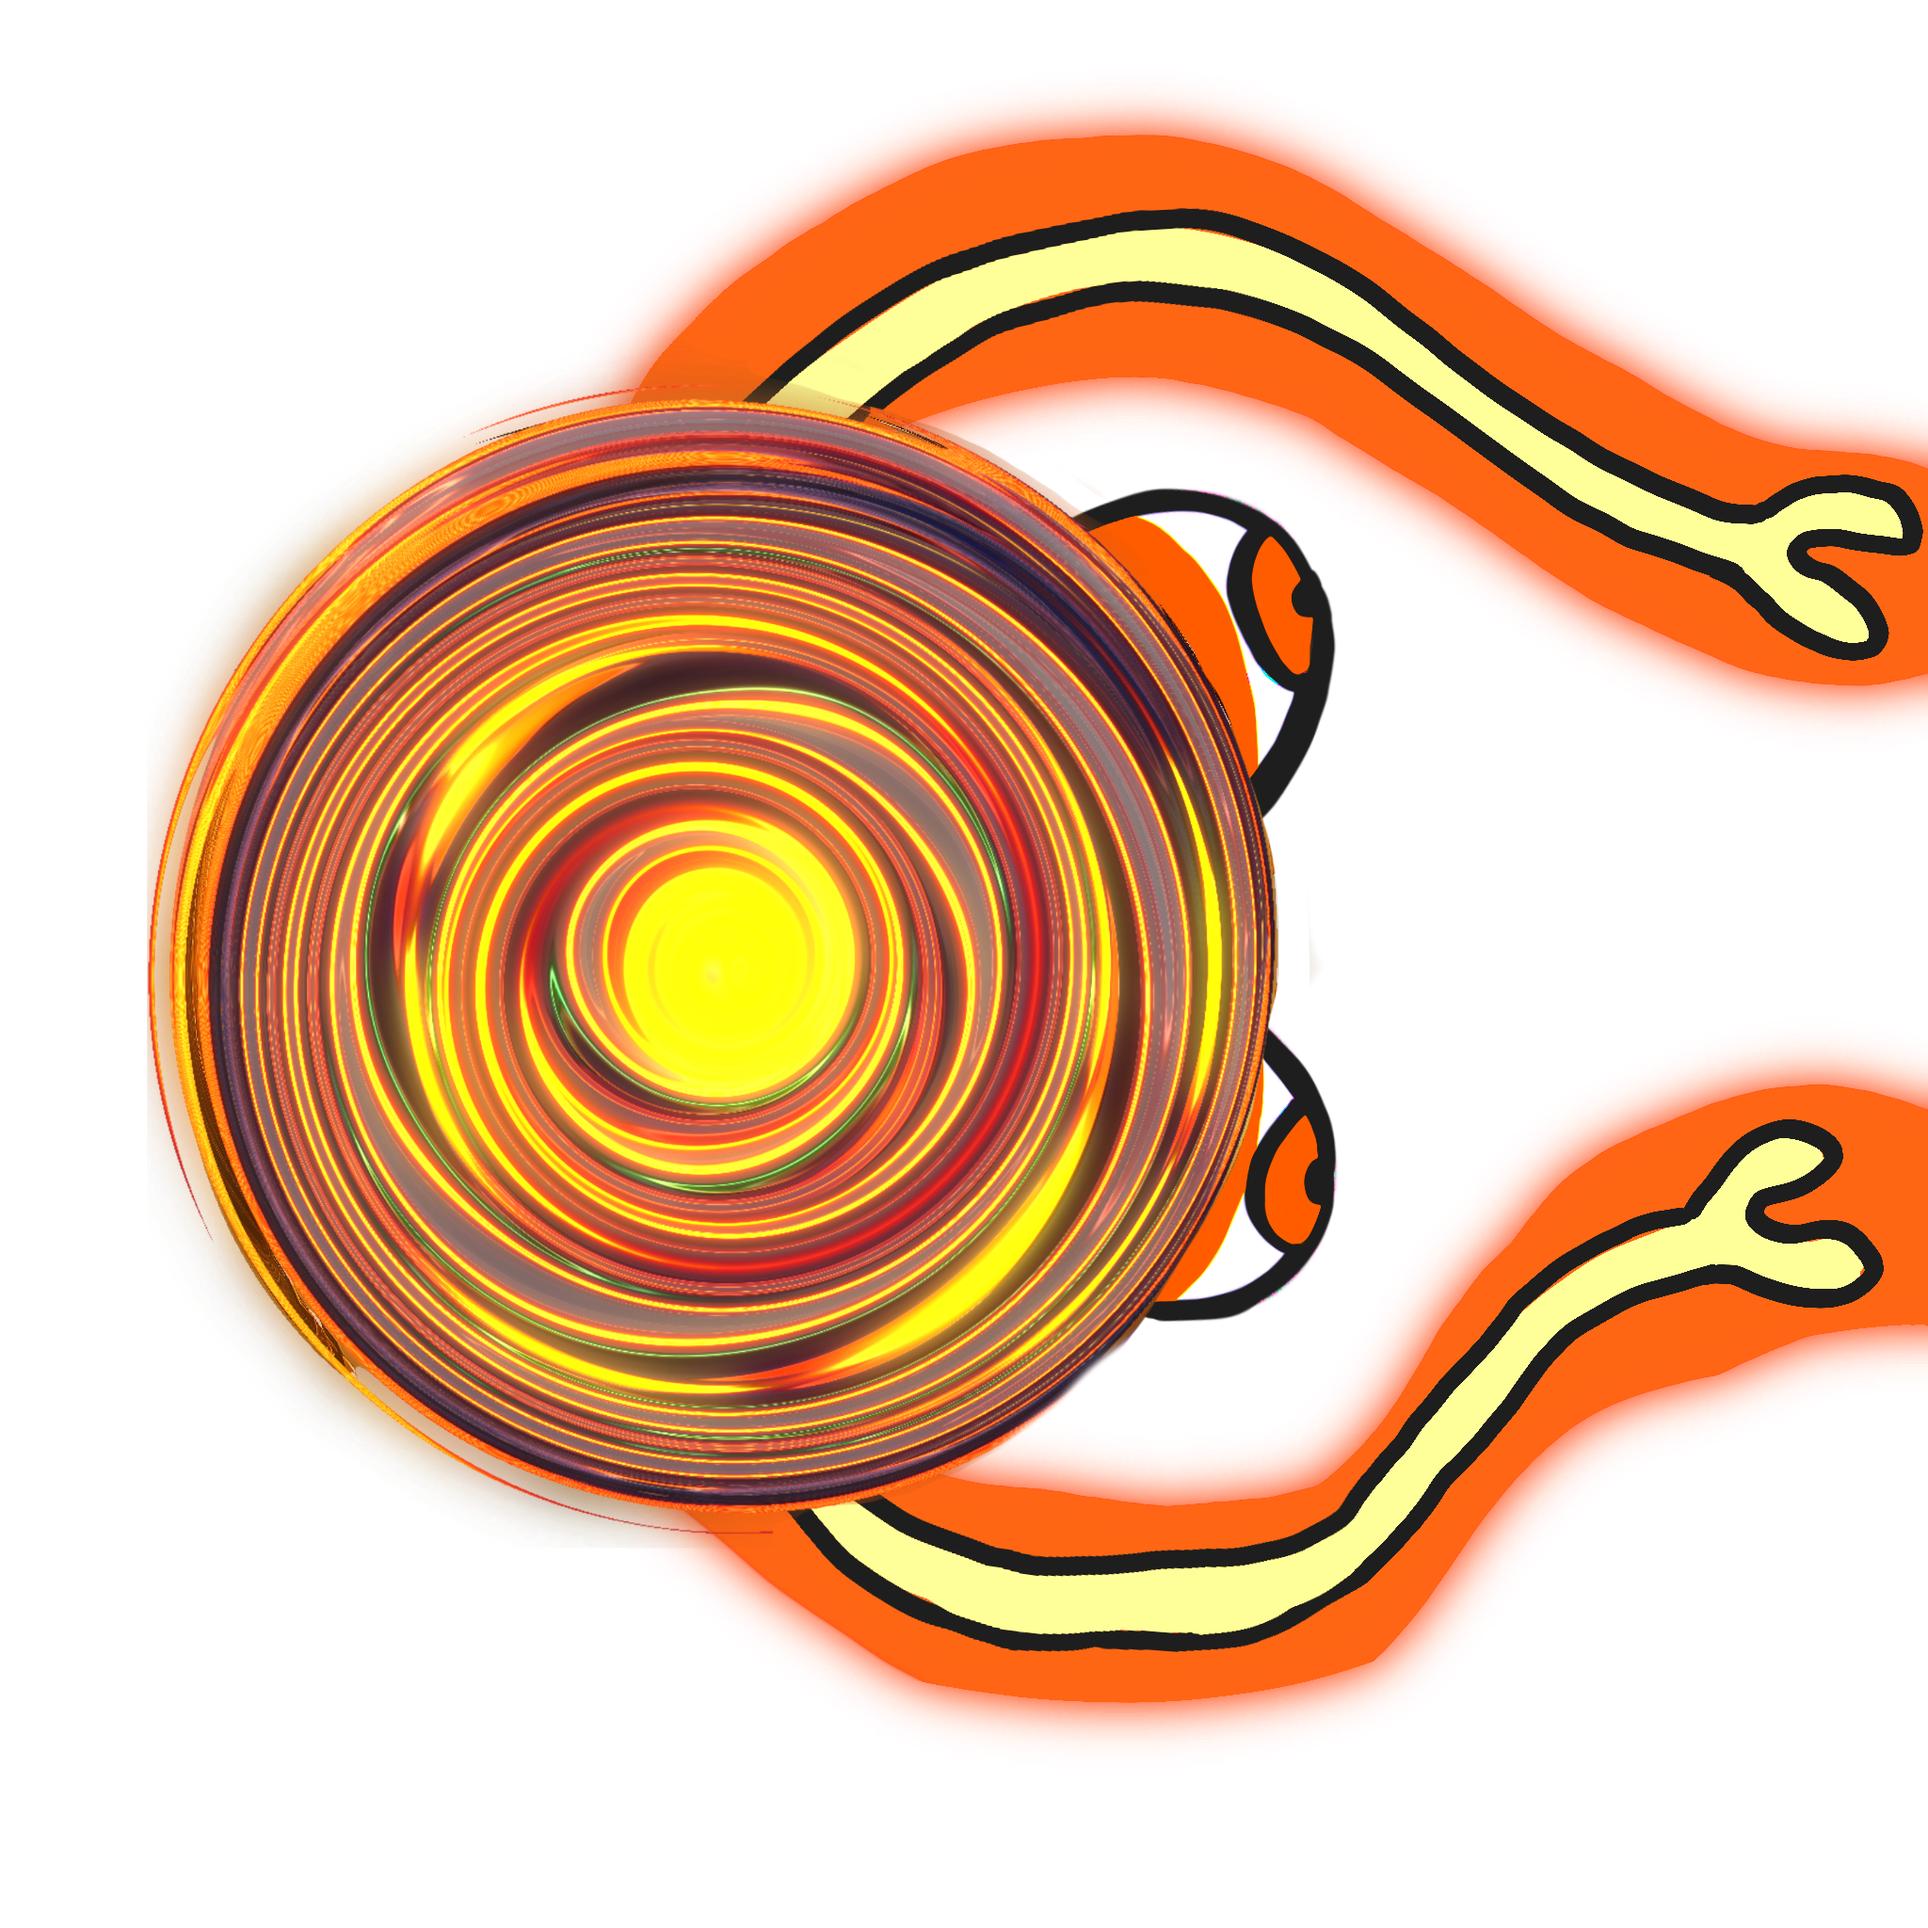
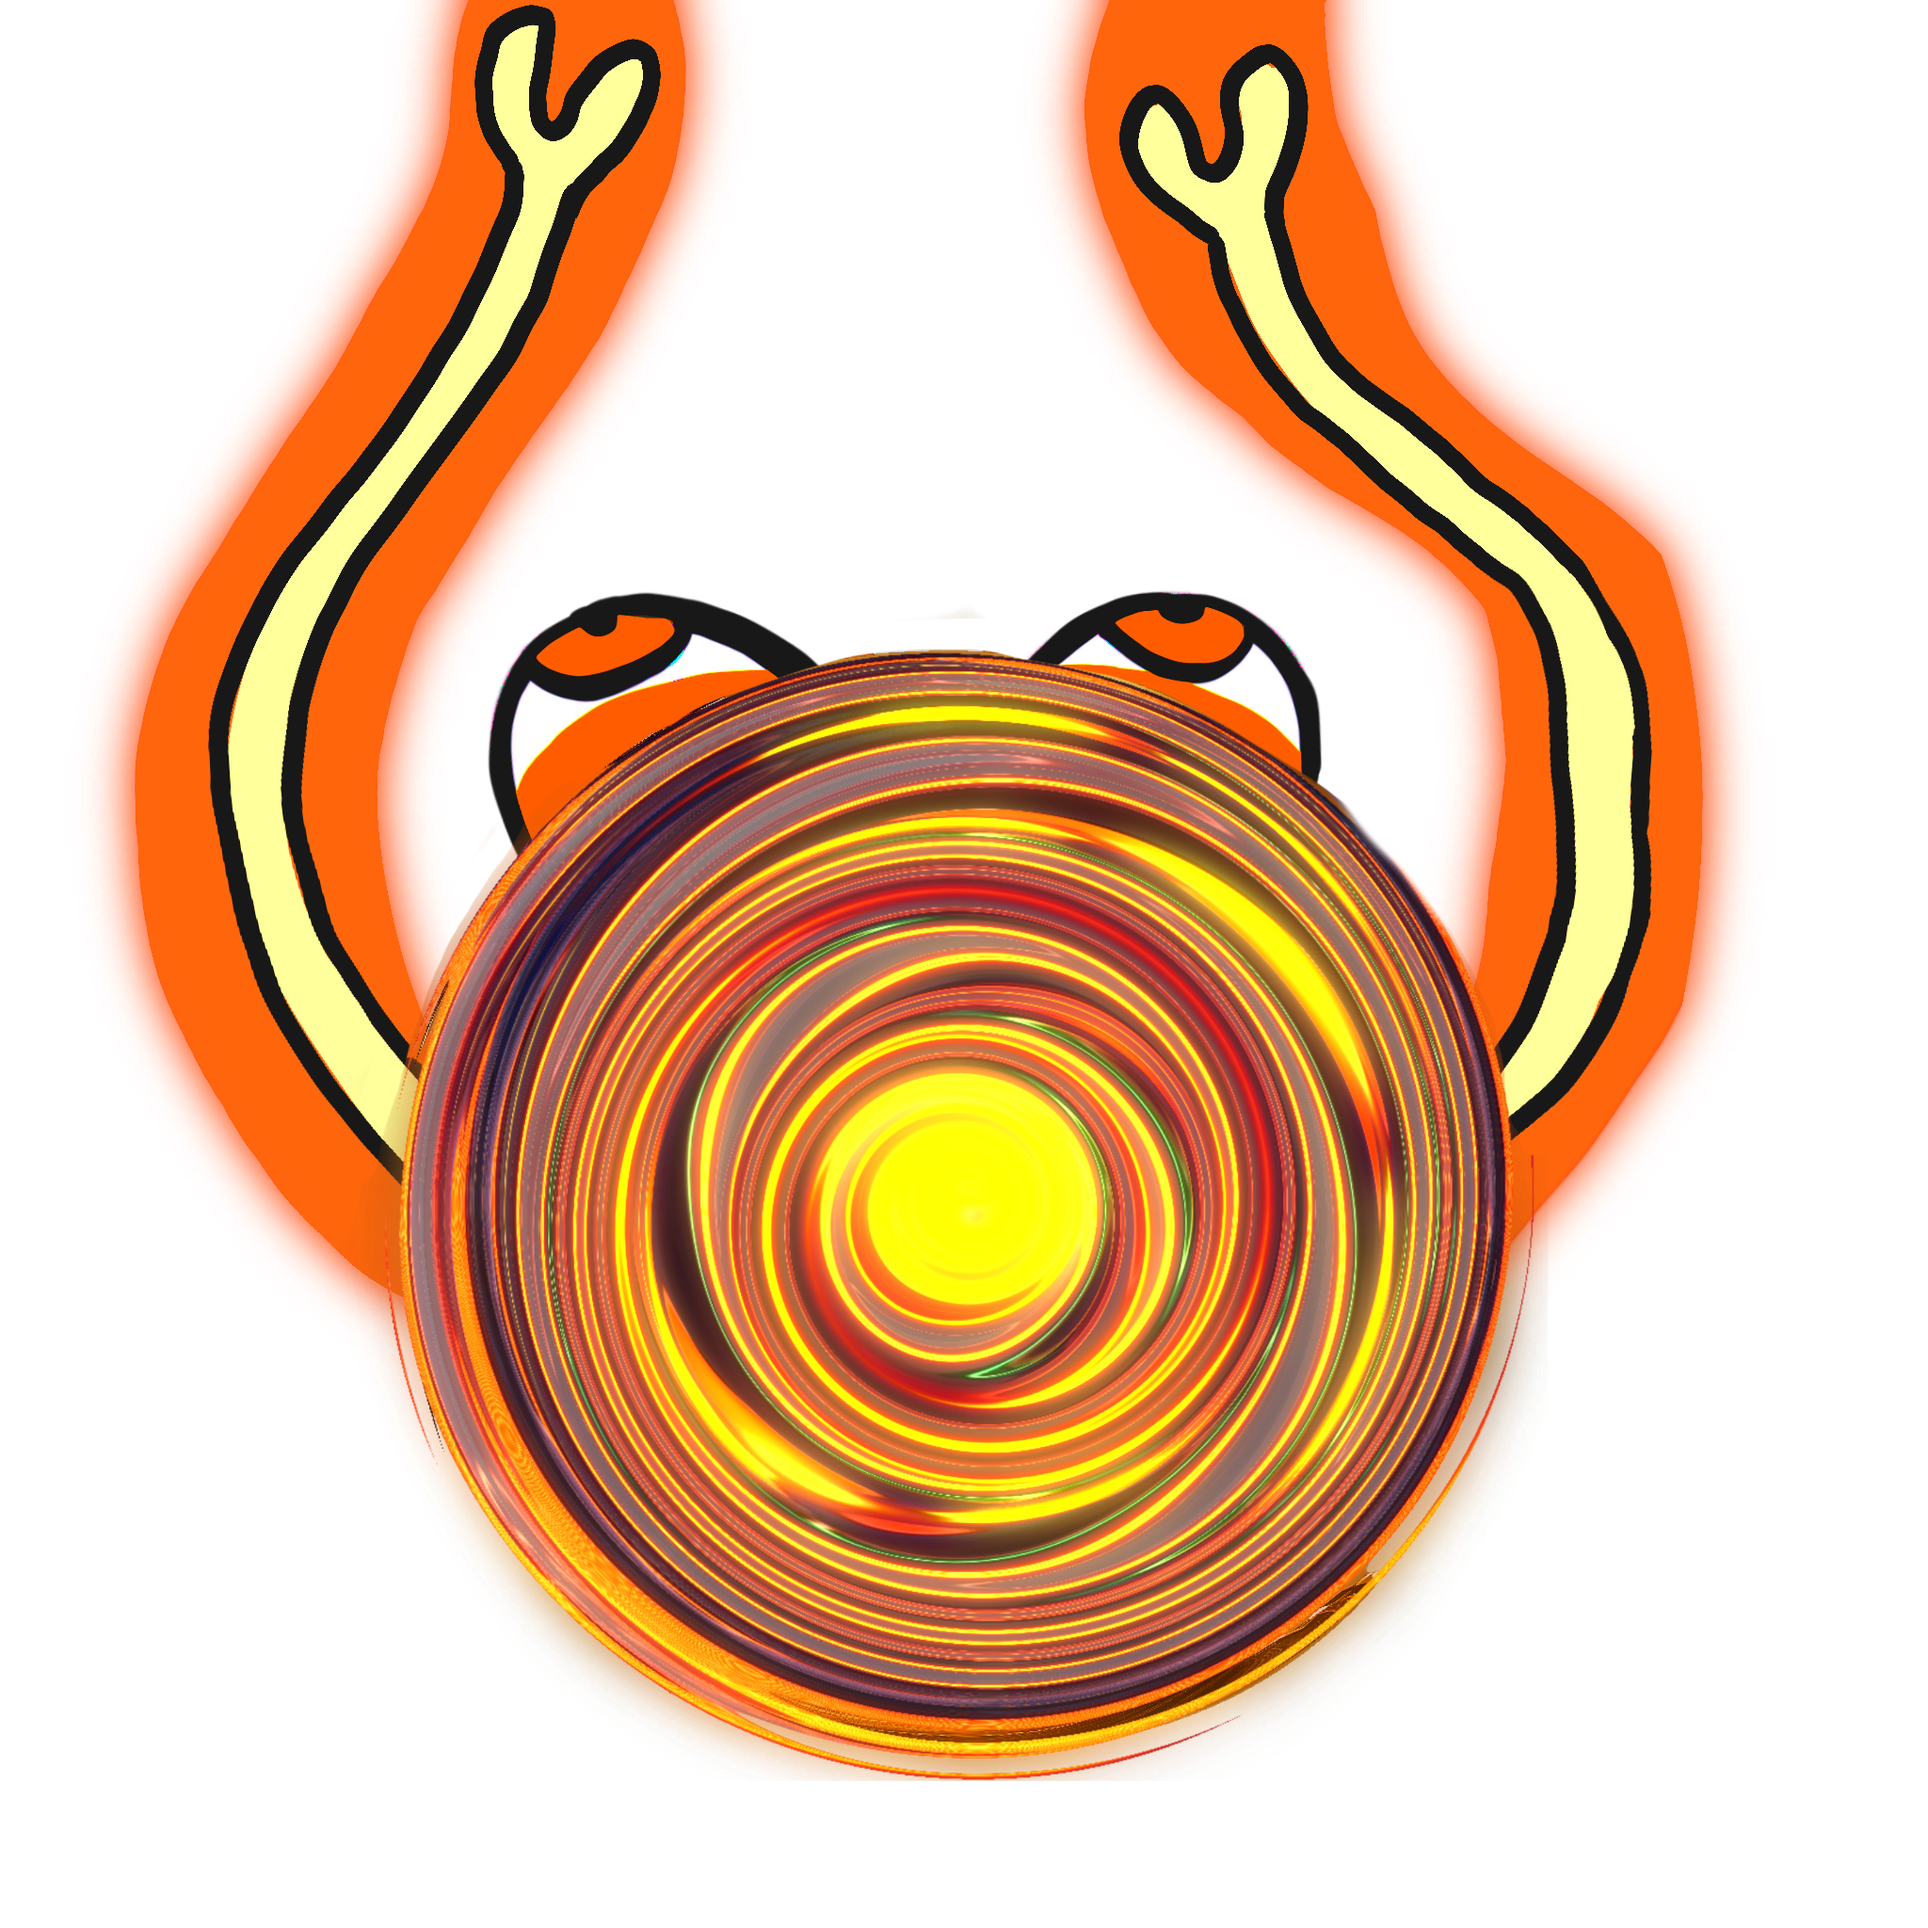
-updated robotimages (now face up instead of right) -implemented rotations for them -bugfixes for reboot directions in GUI -removed rest of the system.out.println

diff --git a/src/main/java/Desperatedrosseln/Logic/Game.java b/src/main/java/Desperatedrosseln/Logic/Game.java
@@ -17,6 +17,7 @@ import Desperatedrosseln.Logic.Elements.BoardElement;
 import Desperatedrosseln.Logic.Elements.Tiles.*;
 import com.squareup.moshi.JsonAdapter;
 import com.squareup.moshi.Moshi;
+import javafx.scene.control.skin.TextInputControlSkin;
 import org.apache.logging.log4j.LogManager;
 import org.apache.logging.log4j.Logger;
 
@@ -1278,7 +1279,7 @@ public class Game {
                     logger.info("Player " + player.getID() + "-" + player.getName() + " has won.");
                     //if it was the last checkpoint, the player has won the game and the protocoll message gets sent
                     JsonAdapter<GameFinished> gameFinishedJsonAdapter = moshi.adapter(GameFinished.class);
-                    GameFinished gameFinished = new GameFinished(robot.getID());
+                    GameFinished gameFinished = new GameFinished(player.getID());
                     broadcastMessage("GameFinished", gameFinishedJsonAdapter.toJson(gameFinished));
                     return;
                 }
@@ -1377,7 +1378,7 @@ public class Game {
             gameMap.getElementsOnPos(pos).add(robot);
             if (belt.isCurved()) {
                 //rotate robot
-                checkRotationByBelt(belt, robot);
+                //checkRotationByBelt(belt, robot);
             }
             robot.setPosition(pos.getX(), pos.getY());
             robotMovedProtokoll(robot);
@@ -1443,10 +1444,11 @@ public class Game {
                     turningvalue = turningvalue + 360;
                 }
                 assert turningvalue == 90 || turningvalue == -90;
-                robot.changeDirection(turningvalue);
-                if (turningvalue == 90) {
+                //robot.changeDirection(turningvalue);
+                robot.setDirection(DIRECTION.valueOfDirection(valueofout));
+                if (valueofout - robot.getDirection().getAngle() == 90) {
                     robotTurnedProtokoll(robot, "counterclockwise");
-                } else if (turningvalue == -90) {
+                } else if (valueofout - robot.getDirection().getAngle() == -90) {
                     robotTurnedProtokoll(robot, "clockwise");
                 }
             }
@@ -1465,15 +1467,15 @@ public class Game {
                     turningvalue = turningvalue + 360;
                 }
                 assert turningvalue == 90 || turningvalue == -90;
-                robot.changeDirection(turningvalue);
-                if (turningvalue == 90) {
+                //robot.changeDirection(turningvalue - 180);
+                robot.setDirection(DIRECTION.valueOfDirection(valueofout));
+                if (valueofout - robot.getDirection().getAngle() == 90) {
                     robotTurnedProtokoll(robot, "counterclockwise");
-                } else if (turningvalue == -90) {
+                } else if (valueofout - robot.getDirection().getAngle() == -90) {
                     robotTurnedProtokoll(robot, "clockwise");
                 }
             }
         }
-
     }
 
     private void activateBluebelts() {

diff --git a/src/main/java/Desperatedrosseln/Local/Client.java b/src/main/java/Desperatedrosseln/Local/Client.java
@@ -185,7 +185,6 @@ public class Client implements Runnable {
             return;
         }
         logger.trace(msg.getMessageType() + ": " + msg.getMessageBody());
-        System.out.println(msg.getMessageType() + ": " + msg.getMessageBody());
         switch (msg.getMessageType()) {
             case "HelloClient":
                 //TODO: disconnect if protocol isnt the same as client.
@@ -297,14 +296,12 @@ public class Client implements Runnable {
                 CurrentPlayer currentPlayer = currentPlayerJsonAdapter.fromJson(msg.getMessageBody());
 
                 isMyTurn = currentPlayer.getClientID() == this.clientID;
-
                 if (isMyTurn && phase == 3) {
                     mainController.setProgramDone(true);
                 } else {
                     mainController.setProgramDone(false);
                 }
 
-                System.out.println("Current player's ID: " + currentPlayer.getClientID());
                 break;
             case "Movement":
                 JsonAdapter<Movement> movementJsonAdapter = moshi.adapter(Movement.class);
@@ -381,7 +378,6 @@ public class Client implements Runnable {
                 }
                 break;
             case "Reboot":
-                //TODO: handle robot reboot
 
                 JsonAdapter<Reboot> rebootJsonAdapter = moshi.adapter(Reboot.class);
                 Reboot reboot = rebootJsonAdapter.fromJson(msg.getMessageBody());
@@ -391,12 +387,7 @@ public class Client implements Runnable {
                 if (reboot.getClientID() == clientID) {
                     mainController.showRestartOverlay();
                 }
-                //String orientation = ;
-
-                //mainController.getMapController().respawnRobot(robotId, orientation);
-
-
-                //mainController.getMapController().removeRobotById(playersWithRobots.get(reboot.getClientID()));
+                mainController.getMapController().hideMyRobot(robotId);
                 break;
             case "ActivePhase":
                 JsonAdapter<ActivePhase> activePhaseJsonAdapter = moshi.adapter(ActivePhase.class);
@@ -406,6 +397,9 @@ public class Client implements Runnable {
                     case 1:
                         regIndex = -1;
                         mainController.startUpgradePhase();
+                        for(int roboid: robotIDs){
+                            mainController.getMapController().showMyRobot(roboid);
+                        }
                         break;
                     case 2:
                         mainController.startProgrammingPhase();

diff --git a/src/main/java/Desperatedrosseln/Local/Controllers/MainController.java b/src/main/java/Desperatedrosseln/Local/Controllers/MainController.java
@@ -466,32 +466,34 @@ public class MainController {
 
     @FXML
     public void showOverlay(String content) {
-        VBox overlay = new VBox();
-        Label label = new Label(content);
-        Button button = new Button("RETURN TO LOBBY");
-        button.getStyleClass().addAll(
-                Arrays.asList(
-                        "button",
-                        "button--sm",
-                        "button--secondary"
-                )
-        );
-        overlay.setSpacing(16);
-        button.addEventHandler(MouseEvent.MOUSE_CLICKED, mouseEvent -> {
-            try {
-                LobbyController lobbyController = new LobbyController();
-                lobbyController.startLobbyScene(stage);
-            } catch (IOException e) {
-                throw new RuntimeException(e);
-            }
+        Platform.runLater(() -> {
+            VBox overlay = new VBox();
+            Label label = new Label(content);
+            Button button = new Button("RETURN TO LOBBY");
+            button.getStyleClass().addAll(
+                    Arrays.asList(
+                            "button",
+                            "button--sm",
+                            "button--secondary"
+                    )
+            );
+            overlay.setSpacing(16);
+            button.addEventHandler(MouseEvent.MOUSE_CLICKED, mouseEvent -> {
+                try {
+                    LobbyController lobbyController = new LobbyController();
+                    lobbyController.startLobbyScene(stage);
+                } catch (IOException e) {
+                    throw new RuntimeException(e);
+                }
+            });
+            label.getStyleClass().add("main-overlay-label");
+            overlay.getStyleClass().add("main-overlay");
+            overlay.setFillWidth(true);
+            overlay.getChildren().add(label);
+            addGlow(label, 0.9);
+            overlay.getChildren().add(button);
+            centerStack.getChildren().add(overlay);
         });
-        label.getStyleClass().add("main-overlay-label");
-        overlay.getStyleClass().add("main-overlay");
-        overlay.setFillWidth(true);
-        overlay.getChildren().add(label);
-        addGlow(label, 0.9);
-        overlay.getChildren().add(button);
-        centerStack.getChildren().add(overlay);
     }
 
     @FXML public void showRestartOverlay() {

diff --git a/src/main/java/Desperatedrosseln/Local/Controllers/MapController.java b/src/main/java/Desperatedrosseln/Local/Controllers/MapController.java
@@ -4,6 +4,7 @@ import Desperatedrosseln.Json.utils.JsonMapReader;
 import Desperatedrosseln.Local.Client;
 import Desperatedrosseln.Local.Protocols.SetStartingPoint;
 import Desperatedrosseln.Logic.Elements.BoardElement;
+import Desperatedrosseln.Logic.Elements.Robot;
 import Desperatedrosseln.Logic.Elements.Tiles.*;
 import Desperatedrosseln.Logic.Elements.Map;
 import Desperatedrosseln.Logic.Elements.MapField;
@@ -417,7 +418,9 @@ public class MapController {
         idToPosition.put(robotId, new Position(x, y));
 
         if (x > 4) {
-            rotateRobot(robotId, "clockwise");
+            rotateRobot(robotId, "counterclockwise");;
+        }
+        else {
             rotateRobot(robotId, "clockwise");
         }
 
@@ -544,6 +547,17 @@ public class MapController {
         return stackPaneList;
     }
 
+        public void hideMyRobot(int robotID){
+            Platform.runLater(() -> {
+                getRobotById(robotID).setOpacity(0);
+            });
+        }
+
+        public void showMyRobot(int robotID){
+            Platform.runLater(() -> {
+                getRobotById(robotID).setOpacity(1);
+            });
+        }
 
     @FXML
     private ImageView buildAntenna(BoardElement boardElement) {
@@ -883,7 +897,6 @@ public class MapController {
     }
 
     private ImageView setElementDirection(ImageView stackElement, String orientation) {
-
 
         if (Objects.equals(orientation, "right")) {
             stackElement.setRotate(90);

diff --git a/src/main/java/Desperatedrosseln/Logic/AI/AIClient.java b/src/main/java/Desperatedrosseln/Logic/AI/AIClient.java
@@ -139,7 +139,6 @@ public class AIClient extends Thread {
         if (msg.getMessageType().equals("Alive")) {
             return;
         }
-        System.out.println(AIName + "(AI)" + msg.getMessageType() + ": " + msg.getMessageBody());
         switch (msg.getMessageType()) {
             case "HelloClient":
                 //TODO: disconnect if protocol isnt the same as client.
@@ -211,7 +210,6 @@ public class AIClient extends Thread {
             case "CurrentPlayer":
                 JsonAdapter<CurrentPlayer> currentPlayerJsonAdapter = moshi.adapter(CurrentPlayer.class);
                 CurrentPlayer currentPlayer = currentPlayerJsonAdapter.fromJson(msg.getMessageBody());
-                System.out.println("Current player's ID: " + currentPlayer.getClientID());
 
                 ai.setCurrentPlayer(currentPlayer.getClientID());
 
@@ -339,7 +337,6 @@ public class AIClient extends Thread {
                 JsonAdapter<Movement> movementJsonAdapter = moshi.adapter(Movement.class);
                 Movement movement = movementJsonAdapter.fromJson(msg.getMessageBody());
                 ai.updateRobotPosition(players.get(movement.getClientID()), movement.getX(), movement.getY());
-                System.out.println(AIName + "----" + ai.getTinyPath());
                 break;
             case "CheckPointReached":
                 JsonAdapter<CheckPointReached> checkPointReachedJsonAdapter = moshi.adapter(CheckPointReached.class);

diff --git a/src/main/java/Desperatedrosseln/Connection/ClientHandler.java b/src/main/java/Desperatedrosseln/Connection/ClientHandler.java
@@ -124,7 +124,6 @@ public class ClientHandler implements Runnable {
         }
 
         logger.trace(message.getMessageType() + ": " + message.getMessageBody());
-        System.out.println(clientName + ": " + message.getMessageType() + " --- " + message.getMessageBody());
 
         switch (message.getMessageType()) {
 

diff --git a/src/main/java/Desperatedrosseln/Logic/Player.java b/src/main/java/Desperatedrosseln/Logic/Player.java
@@ -330,8 +330,6 @@ public class Player {
                 return;
             }
         }
-
-        System.out.println("cannot remove upgrade card");
     }
 
     public int getEnergyReserve() {
